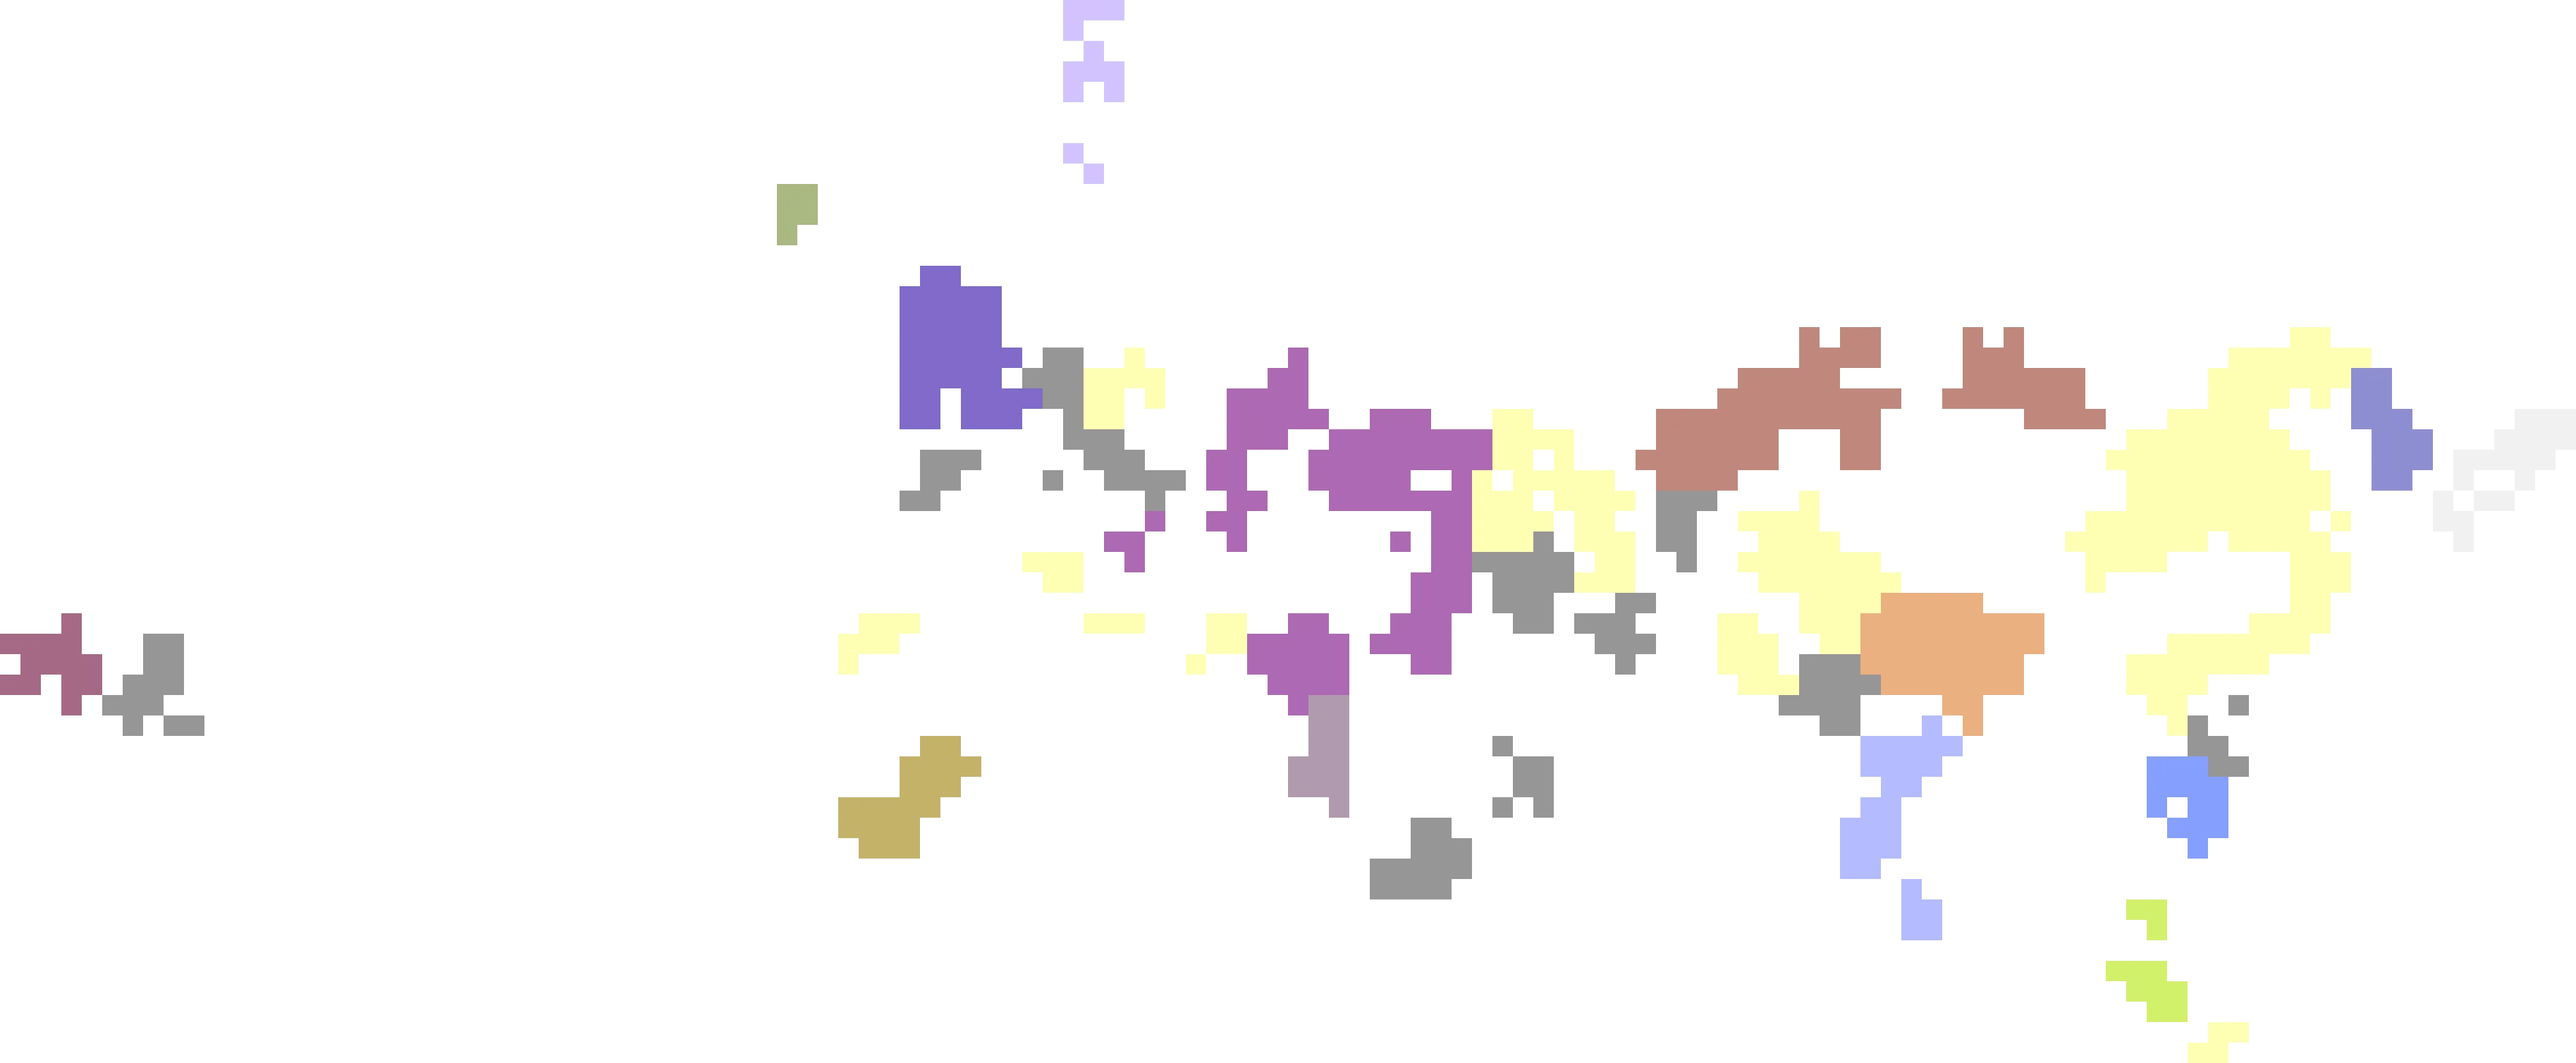
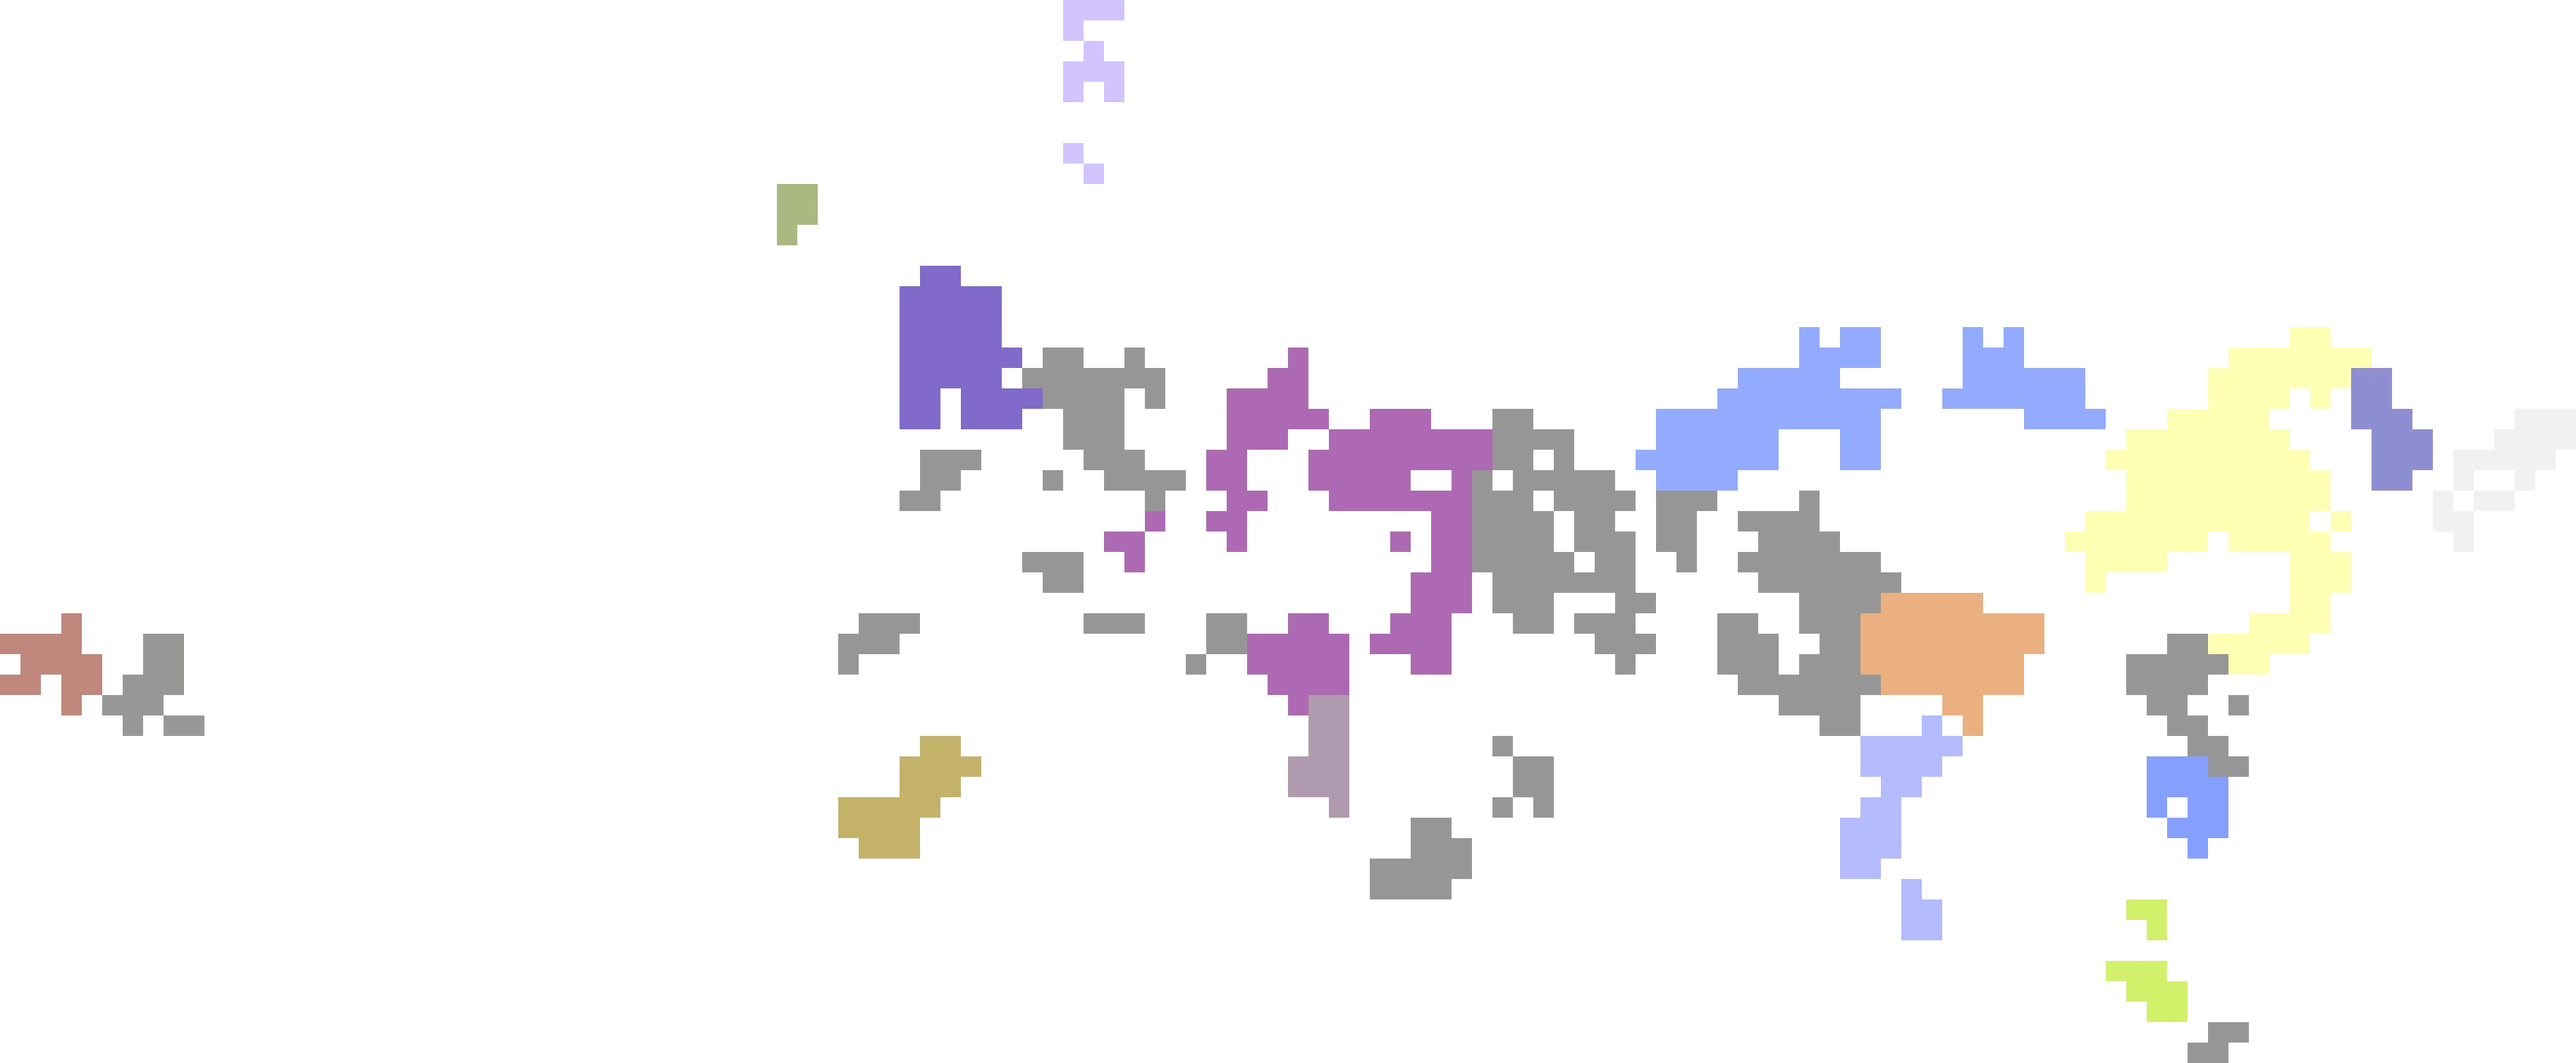
removed 3000BC Culture Map and fixed numbers in csv. temporary fix only!

diff --git a/python/DrawMaps/DrawScenarioCultureMaps.py b/python/DrawMaps/DrawScenarioCultureMaps.py
@@ -5,6 +5,18 @@ from python.helper.helper import *
 
 import config
 
+def fix_outdated_culture_data():
+	for (x, y), tile_info in dTileMap.items():
+		for iyear in lScenarioStartYears:
+			scenario_name = f"RFC_{str(-iyear)}BC" if iyear < 0 else f"RFC_{iyear}AD"
+			culture_key = f"culture_{scenario_name}"
+			
+			for iCiv in range(62, iNumCivs, -1):
+				if tile_info.get(culture_key) == iCiv:
+					dTileMap[(x, y)][culture_key] = iCiv + 1
+					
+
+
 
 def DrawCultureMap(layers_config, scenario_name):
 	print(scenario_name)
@@ -14,14 +26,19 @@ def DrawCultureMap(layers_config, scenario_name):
 	pixels = image.load()
 	
 	for (x, y), tile_info in dTileMap.items():
-		iCiv = tile_info.get(f"culture_{scenario_name}")
+		culture_key = f"culture_{scenario_name}"
+		## 
+		for iCiv in range(iNumCivs - 1, 61, -1):
+				if tile_info.get(culture_key) == iCiv:
+					tile_info[culture_key] = iCiv + 1
+     
+		iCiv = tile_info.get(culture_key)
 		if iCiv is not None:
 			#print(f"Owner for tile {(x, y)}: {iCiv}")
-			
 			color = LCivXML[iCiv]["Color"].get("ColorTypePrimary", (0, 0, 0, 255))
 			tile_color = color[:3] + (150,) 
 			pixels[x, y] = tile_color
-            
+			
 	
 	image, offset = crop_image_to_content(image)  # Crop to content
 	
@@ -33,6 +50,7 @@ def DrawCultureMap(layers_config, scenario_name):
 	add_layer_config_entry(layers_config, display_name, "Scenario Culture", Path(image_path).relative_to(config.OUTPUT_PATH), image.size, offset)
 
 def DrawScenarioCultureMaps(layers_config):
-    for iyear in lScenarioStartYears:
-        scenario_name = f"RFC_{str(-iyear)}BC" if iyear < 0 else f"RFC_{iyear}AD"
-        DrawCultureMap(layers_config, scenario_name)
+	for iyear in lScenarioStartYears:
+		if iyear != -3000:  # Skip the -3000 scenario
+			scenario_name = f"RFC_{str(-iyear)}BC" if iyear < 0 else f"RFC_{iyear}AD"
+			DrawCultureMap(layers_config, scenario_name)
